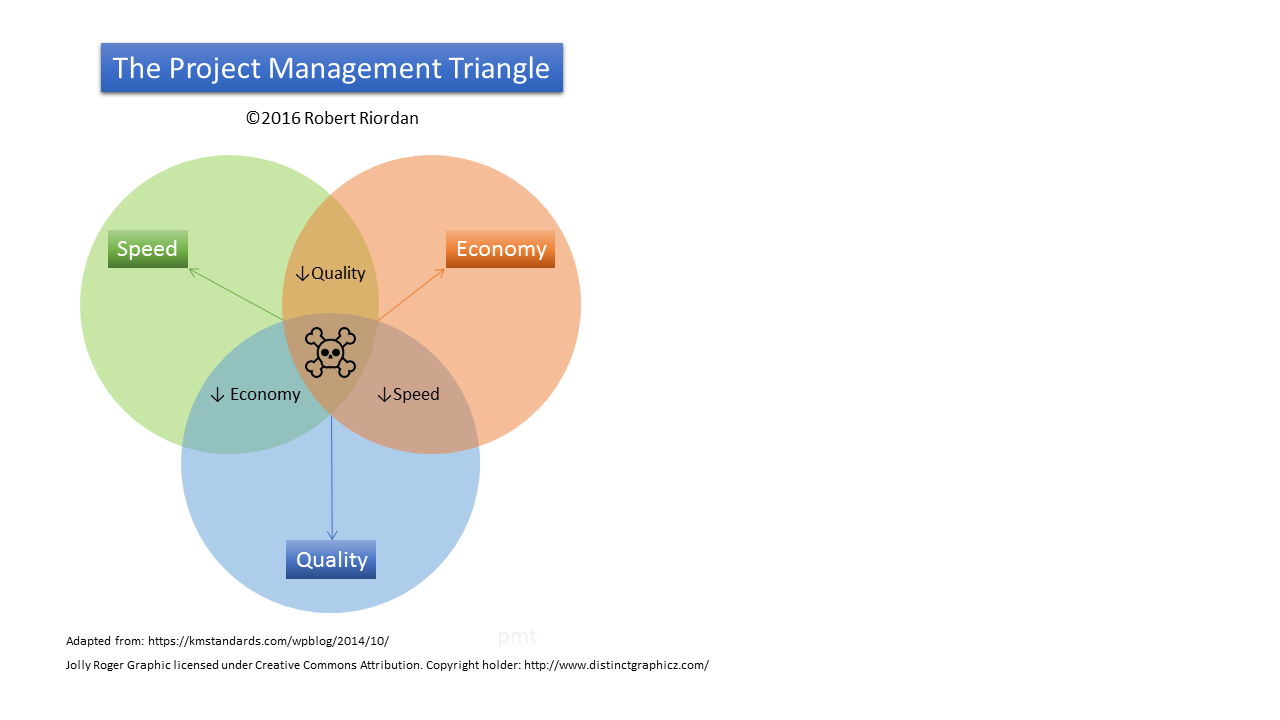
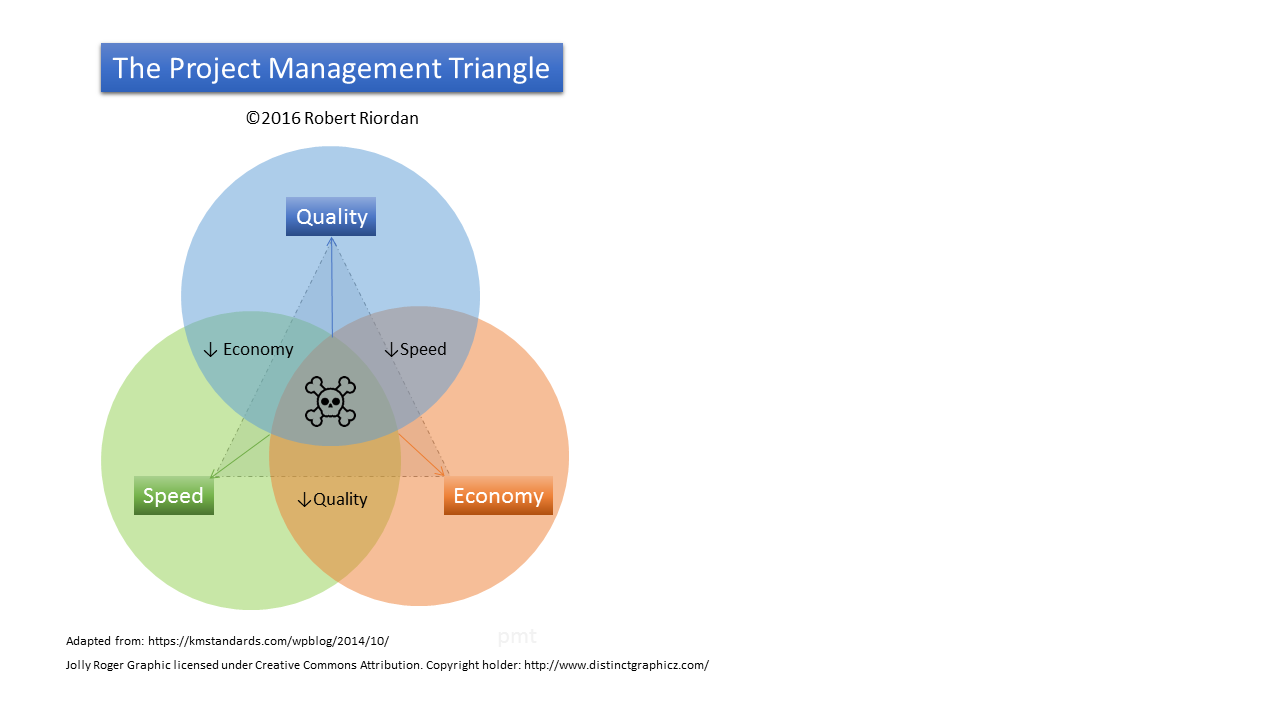
New PMT

Changed region(s): [[0.0625, 0.1833, 0.4688, 0.8556]]

diff --git a/Chapter3/Ch03_Backstory.md b/Chapter3/Ch03_Backstory.md
@@ -70,4 +70,10 @@ Managing an ICT development (or other) project is a balancing act. A project man
 - The required resources
 - The time to complete it
 
-The project scope defines what the project is intended to accomplish. Resources can include people, equipment, material, and money. Time estimates consider project activity time requirements and how they depend on each other (for example it's not wise to begin coding until there is some understanding of what the system requirements are). Management of these elements, and their intricate interplay, is a balancing act. Project Managers (PMs) often make decisions to actively set the levels of two elements, and then calculates the third accordingly while always realizing that all three are important and must be accomplished.
+The project scope defines what the project is intended to accomplish. Resources can include people, equipment, material, and money. Time estimates consider project activity time requirements and how they depend on each other (for example it's not wise to begin coding until there is some understanding of what the system requirements are). Management of these elements, and their intricate interplay, is a balancing act. Project Managers (PMs) often make decisions to actively set the levels of two elements, and then calculates the third accordingly while always realizing that all three are important and must be accomplished. This is often expressed (or visualised) as the *Project Management Triangle.* 
+
+**Figure YTPT. The Project Management Triangle (revisited)**
+
+![Risk Profiler](https://raw.githubusercontent.com/robertriordan/2400/master/Images/pmt.png)
+
+Let's take a minute of two unpacking this figure. 
